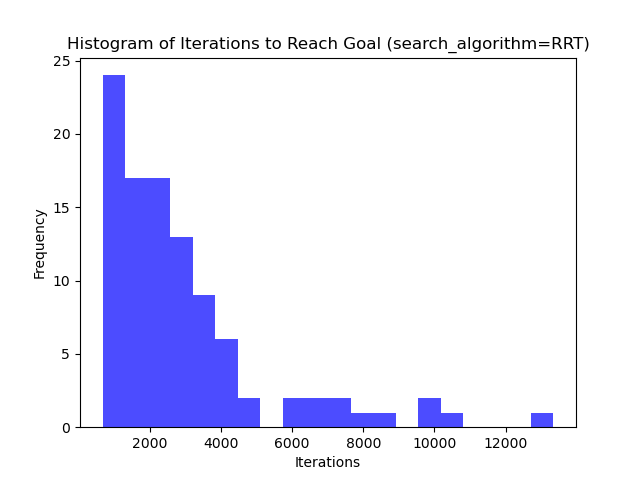
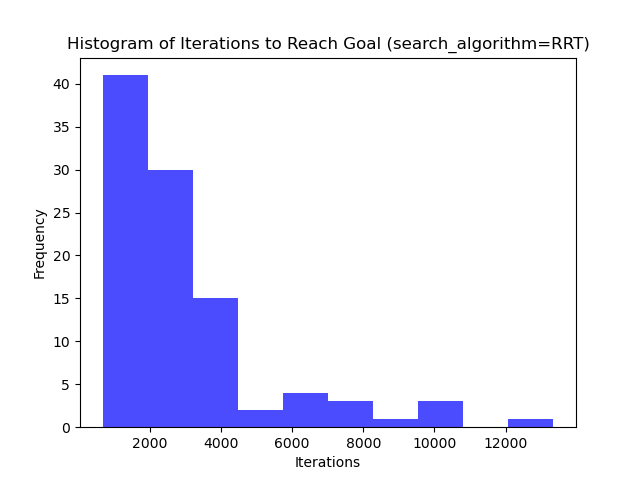
searching for the k nearest nodes, instead of radius

diff --git a/codes/number_3.py b/codes/number_3.py
@@ -1,0 +1,124 @@
+from RRT import RRT
+import numpy as np
+import yaml
+import statistics
+import os
+import matplotlib.pyplot as plt
+
+if __name__ == "__main__":
+
+    #l =  25
+   
+    n_trials = 100
+    l = 25
+    iterations_dict = {}
+    vertices_dict = {}
+    sol_length_dict = {}
+    for i in range(n_trials):
+        rrt = RRT(start=(25, 50), goal=(75, 50), map_type=1, l=l)
+        path, iterations = rrt.search(seed=i)
+        iterations_dict[i] = iterations
+        vertices_dict[i] = len(rrt.V)
+        sol_length_dict[i] = rrt.path_length
+        if path:
+            print(f"Trial {i+1}: Goal reached in {iterations} iterations.")
+        else:
+            print(f"Trial {i+1}: Goal not reached within max iterations.")
+
+    # getting the medians
+    median_iterations = statistics.median(iterations_dict.values())
+    median_vertices = statistics.median(vertices_dict.values())
+    median_sol_length = statistics.median(sol_length_dict.values())
+
+    # Save the results to a YAML file
+    results_dict = {
+        'l': str(l),
+        'n_trials': str(n_trials),
+        'iterations': str(median_iterations),
+        'vertices': str(median_vertices),
+        'solution_lengths': str(median_sol_length)
+    }
+    os.makedirs("results_number_1", exist_ok=True)
+    os.makedirs("pictures_number_1", exist_ok=True)
+    with open(f"results_number_1/results_l_{l}.yaml", "w") as f:
+        yaml.dump(results_dict, f)
+
+    rrt.plot_path(path, fig_name=f"pictures_number_1/rrt_path_l_{l}.png")
+
+    #sorting dictionaries to plot histograms
+    iterations_sorted = dict(sorted(iterations_dict.items(), key=lambda item: item[1]))
+    vertices_sorted = dict(sorted(vertices_dict.items(), key=lambda item: item[1]))
+    sol_length_sorted = dict(sorted(sol_length_dict.items(), key=lambda item: item[1]))
+    #plotting histograms
+
+    plt.figure()
+    plt.hist(iterations_sorted.values(), bins=20, color='blue', alpha=0.7)
+    plt.title(f'Histogram of Iterations to Reach Goal (l={l})')
+    plt.xlabel('Iterations')
+    plt.ylabel('Frequency')
+    plt.savefig(f"pictures_number_1/iterations_histogram_l_{l}.png")
+    
+    plt.figure()
+    plt.hist(vertices_sorted.values(), bins=20, color='green', alpha=0.7)
+    plt.title(f'Histogram of Number of Vertices (l={l})')
+    plt.xlabel('Number of Vertices')
+    plt.ylabel('Frequency')
+    plt.savefig(f"pictures_number_1/vertices_histogram_l_{l}.png")
+
+    #l = 2 
+    l = 4
+
+    iterations_dict = {}
+    vertices_dict = {}
+    sol_length_dict = {}
+    for i in range(n_trials):
+        rrt = RRT(start=(25, 50), goal=(75, 50), map_type=1, l=l)
+        path, iterations = rrt.search(seed=i)
+        iterations_dict[i] = iterations
+        vertices_dict[i] = len(rrt.V)
+        sol_length_dict[i] = rrt.path_length
+        if path:
+            print(f"Trial {i+1}: Goal reached in {iterations} iterations.")
+        else:
+            print(f"Trial {i+1}: Goal not reached within max iterations.")
+
+    # getting the medians
+    median_iterations = statistics.median(iterations_dict.values())
+    median_vertices = statistics.median(vertices_dict.values())
+    median_sol_length = statistics.median(sol_length_dict.values())
+
+    # Save the results to a YAML file
+    results_dict = {
+        'l': str(l),
+        'n_trials': str(n_trials),
+        'iterations': str(median_iterations),
+        'vertices': str(median_vertices),
+        'solution_lengths': str(median_sol_length)
+    }
+
+    with open(f"results_number_1/results_l_{l}.yaml", "w") as f:
+        yaml.dump(results_dict, f)
+
+    rrt.plot_path(path, fig_name=f"pictures_number_1/rrt_path_l_{l}.png")
+
+    #sorting dictionaries to plot histograms
+    iterations_sorted = dict(sorted(iterations_dict.items(), key=lambda item: item[1]))
+    vertices_sorted = dict(sorted(vertices_dict.items(), key=lambda item: item[1]))
+    sol_length_sorted = dict(sorted(sol_length_dict.items(), key=lambda item: item[1]))
+    #plotting histograms
+
+    plt.figure()
+    plt.hist(iterations_sorted.values(), bins=20, color='blue', alpha=0.7)
+    plt.title(f'Histogram of Iterations to Reach Goal (l={l})')
+    plt.xlabel('Iterations')
+    plt.ylabel('Frequency')
+    plt.savefig(f"pictures_number_1/iterations_histogram_l_{l}.png")
+    
+    plt.figure()
+    plt.hist(vertices_sorted.values(), bins=20, color='green', alpha=0.7)
+    plt.title(f'Histogram of Number of Vertices (l={l})')
+    plt.xlabel('Number of Vertices')
+    plt.ylabel('Frequency')
+    plt.savefig(f"pictures_number_1/vertices_histogram_l_{l}.png")
+
+    plt.show()

diff --git a/codes/RRT_star.py b/codes/RRT_star.py
@@ -2,7 +2,8 @@ import numpy as np
 import random
 from Maps import Map
 import matplotlib.pyplot as plt
-
+from scipy.spatial import KDTree
+import math
 
 class RRT_star:
     def __init__(self, start, goal, map_type,l=30, epsilon=0.01, step=2.5, goal_tolerance=1.0):
@@ -14,6 +15,9 @@ class RRT_star:
         self.map_height = 100
         self.map_width = 100
         self.near_radius = 10.0
+        self.path_length_500 = 0
+        self.path_length_1000 = 0
+        self.path_length_2500 = 0
         self.map = Map(self.map_width, self.map_height,step)
         if map_type == 1:
             self.map.obstacles_one(l)
@@ -52,11 +56,16 @@ class RRT_star:
         return q_near
     
     def neighborhood(self, q_new):
-        neighbors = []
-        for v in self.V:
-            dist = np.linalg.norm(np.array(q_new) - np.array(v))
-            if dist <= self.near_radius:
-                neighbors.append(v)
+        k = int(np.ceil(math.e*1.5*np.log(len(self.V))))
+        if k < 1:
+            k = 1
+        elif k > len(self.V):
+            k = len(self.V)
+        tree = KDTree(self.V)
+        _, idxs = tree.query(q_new, k=k)
+        if len(idxs.shape) == 0:
+            idxs = [idxs]
+        neighbors = [self.V[i] for i in idxs]
         return neighbors
     
     def best_parent(self, q_new, neighbors):
@@ -107,11 +116,16 @@ class RRT_star:
         if seed is not None:
             random.seed(seed)
 
-        i = 0
-        while 1:
+        for i in range(2500):
             q_rand = self.sample()
             q_nearest = self.nearest(q_rand)
             q_new = self.steer(q_nearest, q_rand)
+            if i == 499:
+                self.path_length_500 = self.cost_to_come(q_nearest) + np.linalg.norm(np.array(q_new) - np.array(q_nearest))
+            if i == 999:
+                self.path_length_1000 = self.cost_to_come(q_nearest) + np.linalg.norm(np.array(q_new) - np.array(q_nearest))
+            if i == 2499:
+                self.path_length_2500 = self.cost_to_come(q_nearest) + np.linalg.norm(np.array(q_new) - np.array(q_nearest))
             if self.map.is_valid(q_nearest, q_new):
                 neighbors = self.neighborhood(q_new)
                 q_best = self.best_parent(q_new, neighbors)
@@ -119,7 +133,7 @@ class RRT_star:
                 self.E[q_new] = [q_best,self.cost_to_come(q_best) + np.linalg.norm(np.array(q_new) - np.array(q_best))]
                 self.rewire(q_new, neighbors)
             i += 1
-            if  np.linalg.norm(np.array(q_new) - np.array(self.goal)) <= self.goal_tolerance:
+            if  q_new == self.goal:
                 print("Goal reached!")
                 return self.reconstruct_path(q_new), i
             
@@ -150,6 +164,9 @@ class RRT_star:
             ax.plot(path_xs, path_ys, c='red', linewidth=2)
         plt.scatter([self.start[0]], [self.start[1]], c='green', s=50, label='Start')
         plt.scatter([self.goal[0]], [self.goal[1]], c='orange', s=50, label='Goal')
+        #plotting the entire tree
+        for child, (parent, _) in self.E.items():
+            plt.plot([child[0], parent[0]], [child[1], parent[1]], c='gray', linewidth=0.5)
         plt.legend()
         plt.savefig(fig_name)
         plt.show()

diff --git a/codes/RRT.py b/codes/RRT.py
@@ -73,7 +73,7 @@ class RRT:
                 self.V.append(q_new)
                 self.E[q_new] = [q_nearest,np.linalg.norm(np.array(q_new) - np.array(q_nearest))]
             i += 1
-            if  np.linalg.norm(np.array(q_new) - np.array(self.goal)) <= self.goal_tolerance:
+            if  q_new == self.goal:
                 print("Goal reached!")
                 return self.reconstruct_path(q_new), i
             
@@ -105,9 +105,11 @@ class RRT:
             ax.plot(path_xs, path_ys, c='red', linewidth=2)
         plt.scatter([self.start[0]], [self.start[1]], c='green', s=50, label='Start')
         plt.scatter([self.goal[0]], [self.goal[1]], c='orange', s=50, label='Goal')
+        for child, (parent, _) in self.E.items():
+            plt.plot([child[0], parent[0]], [child[1], parent[1]], c='gray', linewidth=0.5)
         plt.legend()
         plt.savefig(fig_name)
-        # plt.show()
+        plt.show()
 
 if __name__ == "__main__":
     rrt = RRT(start=(25, 50), goal=(75, 50), map_type=1)

diff --git a/codes/RRT_connect.py b/codes/RRT_connect.py
@@ -184,9 +184,13 @@ class RRT_connect:
             ax.plot(path_xs, path_ys, c='red', linewidth=2)
         plt.scatter([self.start[0]], [self.start[1]], c='green', s=50, label='Start')
         plt.scatter([self.goal[0]], [self.goal[1]], c='orange', s=50, label='Goal')
+        for child, (parent, _) in self.E_a.items():
+            plt.plot([child[0], parent[0]], [child[1], parent[1]], c='gray', linewidth=0.5)
+        for child, (parent, _) in self.E_b.items():
+            plt.plot([child[0], parent[0]], [child[1], parent[1]], c='gray', linewidth=0.5)
         plt.legend()
         plt.savefig(fig_name)
-        # plt.show()
+        plt.show()
 
 if __name__ == "__main__":
     rrt = RRT_connect(start=(25, 50), goal=(75, 50), map_type=1)

diff --git a/codes/number_2.py b/codes/number_2.py
@@ -51,7 +51,7 @@ def run_rrt_experiments(l, n_trials, result_folder, picture_folder, search_algor
     #plotting histograms
 
     plt.figure()
-    plt.hist(iterations_sorted.values(), bins=20, color='blue', alpha=0.7)
+    plt.hist(iterations_sorted.values(), bins=10, color='blue', alpha=0.7)
     plt.title(f'Histogram of Iterations to Reach Goal (search_algorithm={search_algorithm})')
     plt.xlabel('Iterations')
     plt.ylabel('Frequency')
